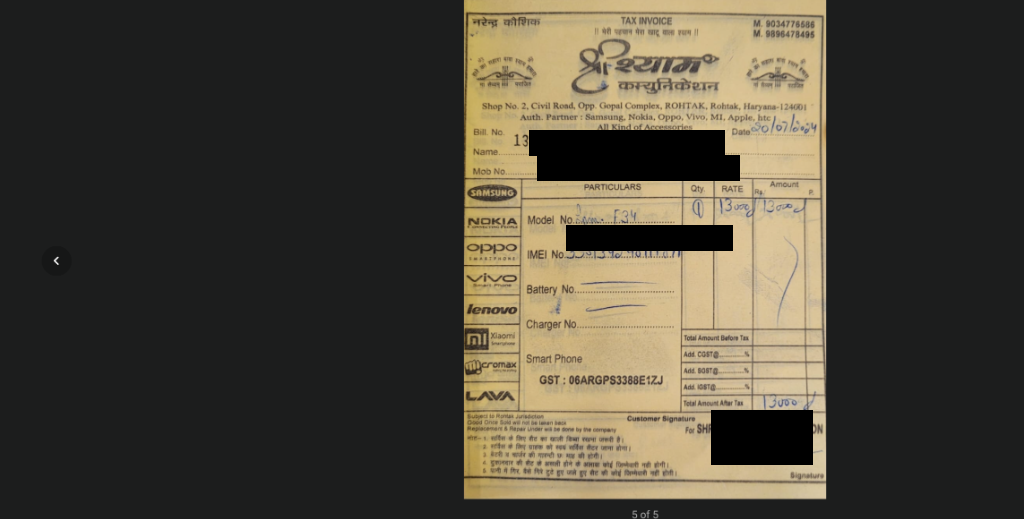
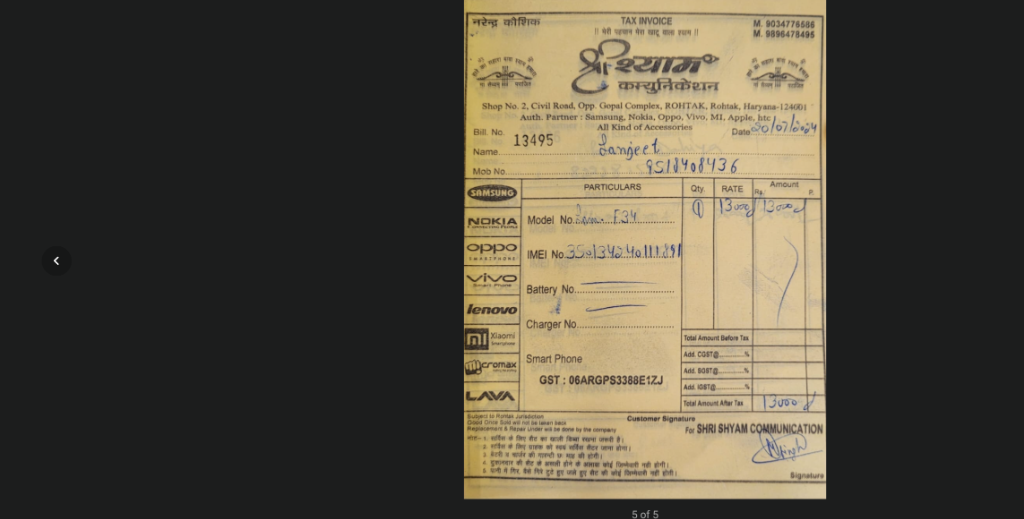
latest updates

Changed region(s): [[0.5, 0.2466, 0.75, 0.3699], [0.6875, 0.7707, 0.8125, 0.894], [0.5312, 0.4316, 0.7188, 0.4933]]

diff --git a/scratch/complete_anchor_test.html b/scratch/complete_anchor_test.html
@@ -3,11 +3,12 @@
 <head>
   <meta charset="utf-8">
   <script src="/lib/tesseract/tesseract.min.js"></script>
+  <script src="/privacy/pii-detector.js"></script>
 </head>
 <body>
-  <h1>Anchor Test</h1>
+  <h1>Complete Invoice Anchor Test</h1>
   <script>
-    function detectFormFieldAnchors(ocrWords, regionBbox) {
+    function detectFormFieldAnchors(ocrWords, ocrLines, regionBbox) {
       if (!ocrWords || !ocrWords.length) return [];
       const anchors = [];
       const regX = regionBbox.x;
@@ -36,7 +37,7 @@
 
       // Check if this document is an invoice/bill/form
       const fullDocText = ocrWords.map(w => w.text).join(' ').toLowerCase();
-      const isInvoiceOrForm = /invoice|bill|tax|gst|particulars|cash|receipt|challan|order|model/i.test(fullDocText);
+      const isInvoiceOrForm = /invoice|bill|tax|gst|particulars|cash\s*memo|receipt|challan|order/i.test(fullDocText);
 
       let foundName = false;
       let foundMob = false;
@@ -45,15 +46,17 @@
 
       for (const line of lines) {
         line.sort((a, b) => a.bbox.x - b.bbox.x);
-        const lineClean = line.map(w => w.text).join(' ').toLowerCase();
+        const lineText = line.map(w => w.text).join(' ');
+        const lineClean = lineText.toLowerCase();
 
         for (let wi = 0; wi < line.length; wi++) {
           const w = line[wi];
           const clean = w.text.toLowerCase().replace(/[^a-z0-9!]/g, '');
 
+          // Helper to get subsequent words on this line
           const getSubsequent = (fromX) => line.filter(other => other.bbox.x > fromX);
 
-          // ── Anchor 1: Customer Name ──
+          // ── Anchor 1: Customer / Person Name ──
           if (!foundName && (/^(?:name|customer|patient|buyer|client)$/i.test(clean) ||
               (clean === 'nam' && line[wi + 1] && /^(?:e|is)$/i.test(line[wi + 1].text.toLowerCase().replace(/[^a-z]/g, ''))))) {
             let refWord = w;
@@ -89,6 +92,7 @@
 
           // ── Anchor 2: Mobile / Phone ──
           if (!foundMob && /^(?:mob|mod|mobile|phone|contact|tel|cell|ono)$/i.test(clean)) {
+            // Avoid matching 'Smart Phone' or product descriptions
             const prevWord = line[wi - 1];
             if (prevWord && /smart|feature|cell|mobile/i.test(prevWord.text)) continue;
 
@@ -161,6 +165,7 @@
 
           // ── Anchor 4: Signature ──
           if (!foundSignature && (/signature|signatory|bugnacure|bgnarure/i.test(clean) || (clean === 'sign' && line.length <= 4))) {
+            // If it's near the bottom right (authorized signature)
             if (w.bbox.x > regX + regW * 0.5 && w.bbox.y > regY + regH * 0.70) {
               const sigX = Math.max(regX + regW * 0.65, w.bbox.x - 30);
               const sigY = Math.max(regY + regH * 0.78, w.bbox.y - 50);
@@ -174,17 +179,32 @@
                 bbox: { x: sigX, y: sigY, width: Math.max(90, sigW), height: 55 }
               });
               foundSignature = true;
+            } else if (/customer/i.test(lineClean)) {
+              // Customer signature line
+              const sigX = Math.max(regX + 10, w.bbox.x - 20);
+              const sigY = Math.max(regY + 10, w.bbox.y - 40);
+              anchors.push({
+                type: 'signature',
+                text: 'Customer Signature Ink',
+                confidence: 0.95,
+                decision: 'REDACT',
+                reason: 'form_field_anchor:customer_signature',
+                bbox: { x: sigX, y: sigY, width: 100, height: 45 }
+              });
             }
           }
         }
       }
 
-      // ── Form Structure Fallback (when labels are faint on printed receipt) ──
+      // ── Form Structure Fallback ──
+      // If invoice/bill is confirmed, but faint labels were dropped by OCR:
+      // Fill the expected standard form slots
       if (isInvoiceOrForm) {
+        // Name slot: approx y = 26% to 32% of bill, left ~18% to 65%
         if (!foundName) {
           const nameX = regX + Math.round(regW * 0.18);
           const nameY = regY + Math.round(regH * 0.26);
-          const nameW = Math.round(regW * 0.54);
+          const nameW = Math.round(regW * 0.50);
           anchors.push({
             type: 'name',
             text: 'Customer Name Field (Form Region)',
@@ -195,10 +215,11 @@
           });
         }
 
+        // Mobile slot: approx y = 31% to 37% of bill, left ~20% to 75%
         if (!foundMob) {
           const mobX = regX + Math.round(regW * 0.20);
           const mobY = regY + Math.round(regH * 0.31);
-          const mobW = Math.round(regW * 0.56);
+          const mobW = Math.round(regW * 0.55);
           anchors.push({
             type: 'phone',
             text: 'Mobile Number Field (Form Region)',
@@ -209,10 +230,11 @@
           });
         }
 
+        // IMEI slot: approx y = 45% to 51% of bill, left ~28% to 70%
         if (!foundImei) {
           const imeiX = regX + Math.round(regW * 0.28);
           const imeiY = regY + Math.round(regH * 0.45);
-          const imeiW = Math.round(regW * 0.46);
+          const imeiW = Math.round(regW * 0.45);
           anchors.push({
             type: 'device_id',
             text: 'IMEI / Serial Field (Form Region)',
@@ -223,6 +245,7 @@
           });
         }
 
+        // Signature slot: bottom right
         if (!foundSignature) {
           const sigX = regX + Math.round(regW * 0.68);
           const sigY = regY + Math.round(regH * 0.82);
@@ -289,7 +312,7 @@
           }
         })).filter(w => w.text);
 
-        const anchors = detectFormFieldAnchors(ocrWords, billBbox);
+        const anchors = detectFormFieldAnchors(ocrWords, res.data.lines, billBbox);
 
         // Header phone numbers & GSTIN
         const additional = [];
@@ -327,18 +350,17 @@
           outCtx.fillRect(d.bbox.x, d.bbox.y, d.bbox.width, d.bbox.height);
         }
 
-        await fetch('http://localhost:8976/results', {
+        await fetch('http://localhost:8988/results', {
           method: 'POST',
           headers: { 'Content-Type': 'application/json' },
           body: JSON.stringify({
             detections: allDetections,
-            wordsCount: ocrWords.length,
             redactedDataUrl: outCanvas.toDataURL('image/png')
           })
         });
 
       } catch (err) {
-        await fetch('http://localhost:8976/results', {
+        await fetch('http://localhost:8988/results', {
           method: 'POST',
           headers: { 'Content-Type': 'application/json' },
           body: JSON.stringify({ error: err.stack || err.message })

diff --git a/server_side_agent/model_client.py b/server_side_agent/model_client.py
@@ -248,7 +248,7 @@ HOW TO REASON UNDER REDACTION:
 8. State every assumption explicitly in the assumptions list.
 9. Don't hallucinate content behind a redaction.
 
-SPECIAL GUIDANCE FOR CHAT & MESSAGING (e.g. WhatsApp, Slack, Messenger):
+SPECIAL GUIDANCE FOR CHAT & MESSAGING: (e.g. WhatsApp, Slack, Messenger)
 - Multi-Step Contact Search & Message Flow (e.g. "message Tanishq I will not be available", "search for contact Tanishq and message him...", "send 'Tanishq' a 10 line poem"):
   * Step 1 (Search for contact): Type the contact name into the left contact search bar (look for placeholder "Search or start new chat", "Search", id="search", or role="textbox" on top-left at x < 400, y < 150). DO NOT type into the bottom message textbox on the right!
   * Step 2 (Select contact from search list): In the search results under "Chats" on the left (x < 450, 65 <= y <= 400), click the FIRST/TOP contact result card that matches the contact name. DO NOT click the message textbox on the right yet.
@@ -261,7 +261,7 @@ SPECIAL GUIDANCE FOR CHAT & MESSAGING (e.g. WhatsApp, Slack, Messenger):
 
 - CRITICAL: NEVER target a microphone or voice recording button (labeled "Voice message", "Microphone", "PTT", or "(Microphone / Voice Record Button - NOT A TEXTBOX)") for text tasks or "type" actions. Always target the actual TEXTBOX (labeled "Type a message", role="textbox", contenteditable).
 
-SPECIAL GUIDANCE FOR SEARCH & FORM INPUTS (e.g. Flipkart, YouTube, Amazon, Google):
+SPECIAL GUIDANCE FOR SEARCH & FORM INPUTS: (e.g. Flipkart, YouTube, Amazon, Google)
 - When the user asks to search for something, find a product/video/song/topic, or look up information (e.g. "search stylish watches for me", "search watches on flipkart", "search Indias got latent and play most viewed video", "search 'Khat' and play first video"):
   1. ALWAYS use action type "type" targeting the search input box (look for elements with placeholder/label "Search", id="search", name="search_query", or tag="input" / role="combobox" / type="text" at the top of the page).
   2. CRITICAL: NEVER emit action type "click" on a search button (Search Icon, magnifying glass button, submit button) when starting a search or when the search input is empty! The search button does NOTHING if the query is not in the search box.
@@ -281,7 +281,8 @@ VERIFYING TASK COMPLETION IN MULTI-STEP LOOPS (CRITICAL):
   2. For messaging: If the requested message is visible in the chat history/bubbles, OR the chat input is cleared/empty after sending, THE TASK IS COMPLETE! Return action type "done":
      Example: {{"type": "done", "targetElementId": null, "value": null, "scrollDirection": null}}
   3. If the message text is sitting in the textbox and NOT yet sent (with a Send button visible), return action type "click" targeting the Send button. DO NOT return "done" if the message text is still sitting unsubmitted inside the input field.
-  4. For search tasks: NEVER return action type "done" on the homepage or when the search input is still empty! Homepage banners, carousels, or suggested items are NOT search results. You may only return "done" once the search results page (/search, /results, /s) is actually loaded with results for the user's specific query.
+  4. For search tasks: NEVER ret
+  urn action type "done" on the homepage or when the search input is still empty! Homepage banners, carousels, or suggested items are NOT search results. You may only return "done" once the search results page (/search, /results, /s) is actually loaded with results for the user's specific query.
   5. For video playback tasks: DO NOT return "done" on search results pages when the user asked to play a video! On search results, emit action type "click" targeting the requested/first video title link. Only return action type "done" once the video watch page (/watch) is open and playing.
   6. NEVER re-type or re-send the same message if prior actions show it was already executed and delivered. Return "done".
 
@@ -394,6 +395,22 @@ def build_request_payload(
         }
         payload.update(build_format_param("openrouter", schema))
         return payload
+
+def extract_json_block(text: str) -> str:
+    """
+    Strips markdown formatting and extracts JSON object substring from text.
+    """
+    if not text:
+        return ""
+    clean = text.strip()
+    if "```" in clean:
+        clean = re.sub(r"^```(?:json)?\s*", "", clean, flags=re.MULTILINE)
+        clean = re.sub(r"\s*```$", "", clean, flags=re.MULTILINE)
+
+    match = re.search(r"\{.*\}", clean, re.DOTALL)
+    if match:
+        clean = match.group(0)
+    return clean
 
 def call_ollama(prompt: str, image_b64: str, schema: dict = None) -> tuple[str, str]:
     """
@@ -547,16 +564,7 @@ def parse_and_validate(raw_text: str) -> tuple[Optional[InterpretResponse], Opti
     if not raw_text:
         return None, "Empty response received from model"
 
-    clean = raw_text.strip()
-    # Strip markdown block if present
-    if "```" in clean:
-        clean = re.sub(r"^```(?:json)?\s*", "", clean, flags=re.MULTILINE)
-        clean = re.sub(r"\s*```$", "", clean, flags=re.MULTILINE)
-
-    # Extract JSON bracket match
-    match = re.search(r"\{.*\}", clean, re.DOTALL)
-    if match:
-        clean = match.group(0)
+    clean = extract_json_block(raw_text)
 
     try:
         data = json.loads(clean)

diff --git a/test_vlm_adapter.py b/test_vlm_adapter.py
@@ -1,8 +1,11 @@
 import sys, os, base64, io
 from PIL import Image
 
-sys.path.append(os.path.abspath("server_side_agent"))
-import model_client
+sys.path.insert(0, os.path.join(os.path.dirname(os.path.abspath(__file__)), "server_side_agent"))
+try:
+    import model_client  # type: ignore
+except ImportError:
+    from server_side_agent import model_client  # type: ignore
 
 def test_png_optimization():
     # Create test image with red square

diff --git a/server_side_agent/__init__.py b/server_side_agent/__init__.py
@@ -1,0 +1,1 @@
+# Package marker for server_side_agent
